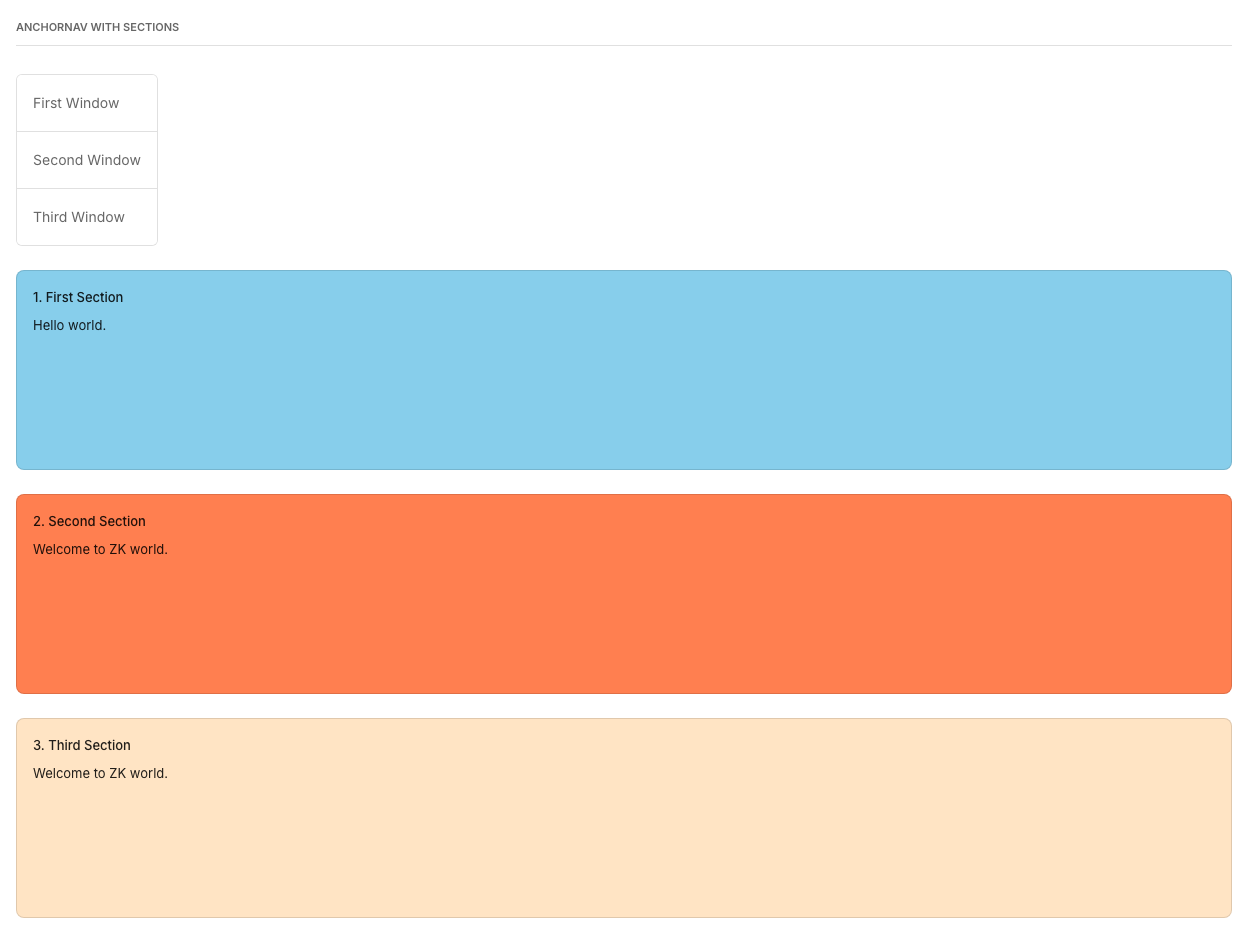
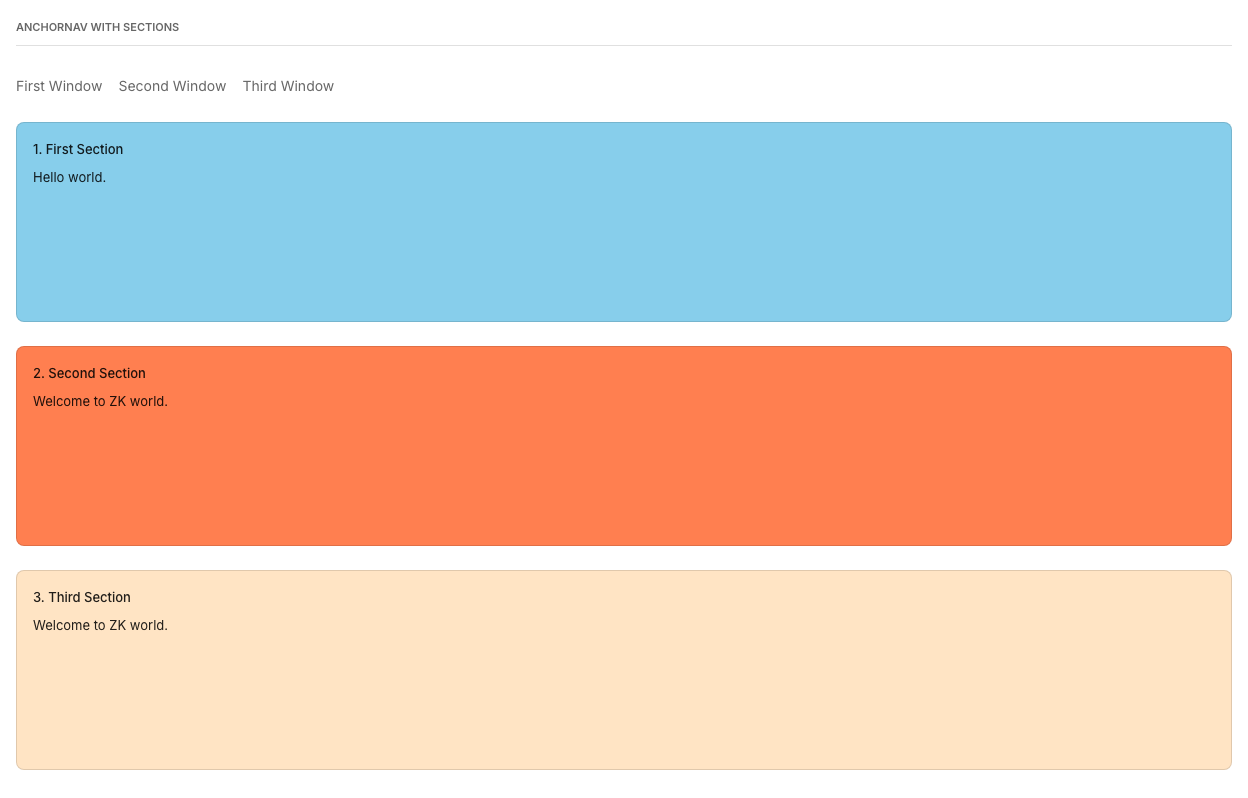
ZK-6112: build the anchornav preview from links, add button links, test the active link and its outline, and update the baselines (zkdemo B11-Z3)

diff --git a/zkpreview/src/test/playwright/component-theme-variables.spec.ts b/zkpreview/src/test/playwright/component-theme-variables.spec.ts
@@ -56,7 +56,6 @@ test.describe('Component Theme Variables (borrowed preview pages)', () => {
 // Each test: read stock values, inject the region's knobs at :root after the theme bundle, read again.
 const SCOPED_PURPLE = PURPLE;
 const borderBottomColorOf = (loc: Locator) => loc.evaluate((el) => getComputedStyle(el).borderBottomColor);
-const borderLeftColorOf = (loc: Locator) => loc.evaluate((el) => getComputedStyle(el).borderLeftColor);
 const pseudoBgOf = (loc: Locator, pseudo: string) =>
   loc.evaluate((el, p) => getComputedStyle(el, p).backgroundColor, pseudo);
 
@@ -722,22 +721,38 @@ test.describe('Component Theme Variables (borrowed preview pages, batch 3)', () 
   });
 
   test('anchornav — stock values, then :root override reaches it', async ({ page }) => {
-    // anchornav.zul renders no selected row; select the second item (the first stays the resting link)
-    // through the client widget API, because clicking an item does not select it.
-    await page.evaluate(() => zk.Widget.$(document.querySelectorAll('.z-anchornav .z-listitem')[1]).setSelected(true));
-    const c0 = page.locator('.z-anchornav').first().locator('.z-a').first();
-    const c1 = page.locator('.z-anchornav').first().locator('.z-listitem-selected').first();
-    const c2 = page.locator('.z-anchornav').first().locator('.z-listitem-selected').first().locator('.z-a').first();
+    // anchornav.zul renders no active link; click the second link (the first stays the resting link).
+    // The active class is added after the scroll animation, so wait for it.
+    const links = page.locator('.z-anchornav').first().locator('a.z-a');
+    const c0 = links.first();
+    const c1 = links.nth(1);
     await c0.waitFor({ state: 'attached' });
-    await c1.waitFor({ state: 'attached' });
-    await c2.waitFor({ state: 'attached' });
+    await c1.click();
+    await expect(c1).toHaveClass(/z-anchornav-link-active/);
+    await page.waitForTimeout(300); // the link color has a transition
     expect(await colorOf(c0)).toBe('rgba(0, 0, 0, 0.6)'); // stock
-    expect(await borderLeftColorOf(c1)).toBe('rgb(55, 111, 208)'); // stock
-    expect(await colorOf(c2)).toBe('rgb(55, 111, 208)'); // stock
+    expect(await colorOf(c1)).toBe('rgb(55, 111, 208)'); // stock
     await page.addStyleTag({ content: ':root{--zk-anchornav-fg:#6750a4;--zk-anchornav-accent:#6750a4}' });
+    await page.waitForTimeout(300);
     expect(await colorOf(c0)).toBe(SCOPED_PURPLE);
-    expect(await borderLeftColorOf(c1)).toBe(SCOPED_PURPLE);
-    expect(await colorOf(c2)).toBe(SCOPED_PURPLE);
+    expect(await colorOf(c1)).toBe(SCOPED_PURPLE);
+  });
+
+  test('anchornav — button link: the active link gets an accent outline, :root override reaches it', async ({ page }) => {
+    // The second anchornav on anchornav.zul has button links; a filled button cannot show the state by text color.
+    const buttons = page.locator('.z-anchornav').nth(1).locator('button');
+    const c0 = buttons.first();
+    const c1 = buttons.nth(1);
+    await c0.waitFor({ state: 'attached' });
+    await c1.click();
+    await expect(c1).toHaveClass(/z-anchornav-link-active/);
+    await page.mouse.move(0, 0); // the button's hover rule is not what is measured
+    await page.waitForTimeout(300);
+    const outlineOf = (loc: Locator) => loc.evaluate((el) => { const c = getComputedStyle(el); return `${c.outlineStyle} ${c.outlineWidth} ${c.outlineColor}`; });
+    expect(await outlineOf(c0)).toMatch(/^none /); // stock: the resting link has no outline
+    expect(await outlineOf(c1)).toBe('solid 2px rgb(55, 111, 208)'); // stock
+    await page.addStyleTag({ content: ':root{--zk-anchornav-accent:#6750a4}' });
+    expect(await outlineOf(c1)).toBe(`solid 2px ${SCOPED_PURPLE}`);
   });
 
   test('stepbar — stock values, then :root override reaches it', async ({ page }) => {

diff --git a/zul/src/main/resources/web/zul/css/tokens/_component-theme.css b/zul/src/main/resources/web/zul/css/tokens/_component-theme.css
@@ -758,18 +758,15 @@
     --zk-navitem-selected-bg: color-mix(in srgb, var(--zk-color-primary) 12%, transparent);
     --zk-navitem-selected-fg: var(--zk-color-primary);
 
-    /* ── Anchornav (EE, zkmax) — anchor-link navigation list built on a plain
-       listbox (zkmax/nav/css/anchornav.css): .z-anchornav wraps a listbox
-       whose item links (.z-a) jump to page sections. --zk-anchornav-fg is
-       the resting (non-active) item link's text color. The active item is
-       the component's one defining state — --zk-anchornav-accent colors
-       BOTH the left border indicator and the active item's own link text
-       (both read var(--zk-color-primary) today), the same "one knob,
-       several roles" precedent as tab/calendar/nav's accent. The
-       indicator's border-left WIDTH (3px) stays hardcoded, same convention
-       as tab's border-bottom-color knob leaving its indicator width fixed.
-       The underlying listbox chrome (.z-listbox / .z-listitem) is already
-       a separate conformant family (its own --zk-listbox-* knobs);
+    /* ── Anchornav (EE, zkmax) — anchor-link navigation (zkmax/nav/css/anchornav.css):
+       .z-anchornav wraps a / button links that jump to page sections.
+       --zk-anchornav-fg is the resting link's text color. The active link
+       (.z-anchornav-link-active) is the component's one defining state —
+       --zk-anchornav-accent colors an a link's text and the outline
+       of a button link (both read var(--zk-color-primary) today), the same
+       "one knob, several roles" precedent as tab/calendar/nav's accent. The
+       outline's width and offset stay hardcoded, same convention as tab's
+       border-bottom-color knob leaving its indicator width fixed.
        text-decoration:none is structural, not a themeable axis. */
     --zk-anchornav-fg:     var(--zk-color-on-surface-variant);
     --zk-anchornav-accent: var(--zk-color-primary);

diff --git a/doc/spec/component-theme-variables.md b/doc/spec/component-theme-variables.md
@@ -1097,15 +1097,14 @@ structural exceptions.
 
 ### Anchornav — shipped
 
-Anchor-link navigation list (EE, `zkmax/nav/css/anchornav.css`) — `.z-anchornav` wraps a plain
-listbox whose item links (`.z-a`) jump to page sections. No background, border, or radius knob
-applies — the container paints no fill/border of its own; the listbox's chrome is already its own
-established variable family (`--zk-listbox-*`) and isn't re-exposed here. Only two color axes:
-`--zk-anchornav-fg` is the resting (non-active) item link's text color. The active item is the
-component's one defining state — `--zk-anchornav-accent` colors **both** the left-edge border
-indicator (`.z-listitem-selected`'s `border-left`) and the active item's own link text — both read
-`var(--zk-color-primary)` today, one knob keeping them in sync, the same "one knob, several roles"
-precedent as tab/calendar/nav's accent. The indicator's border width (`3px`) stays a literal, not
+Anchor-link navigation (EE, `zkmax/nav/css/anchornav.css`) — `.z-anchornav` wraps `a` or `button`
+links that jump to page sections. No background, border, or radius knob applies — the container
+paints no fill/border of its own. Only two color axes: `--zk-anchornav-fg` is the resting link's
+text color. The active link is the component's one defining state — Anchornav.ts adds
+`.z-anchornav-link-active` to it, and `--zk-anchornav-accent` colors an `a` link's text (with a
+heavier weight) and the outline of a `button` link (a `button` is already a filled primary
+button, so its text color cannot carry the state). One knob keeps both in sync, the same "one knob,
+several roles" precedent as tab/calendar/nav's accent. The outline's width and offset stay literals, not
 knob-driven (same convention as tab's `border-bottom-color` knob — width stays fixed, only color is
 exposed). `text-decoration: none` is a structural declaration, not a themeable appearance axis, so
 it isn't exposed. `.z-anchornav` renders in place with no client-side reparenting, so region
@@ -1114,7 +1113,7 @@ scoping works normally — unlike messagebox/popup/drawer's structural exception
 | Knob | Default | Scope |
 |------|---------|-------|
 | `--zk-anchornav-fg` | `var(--zk-color-on-surface-variant)` | resting item link text |
-| `--zk-anchornav-accent` | `var(--zk-color-primary)` | active item's left-edge border indicator + link text |
+| `--zk-anchornav-accent` | `var(--zk-color-primary)` | active `a` link text, active `button` link outline |
 
 ### Stepbar — shipped
 

diff --git a/doc/contracts/anchornav.md b/doc/contracts/anchornav.md
@@ -10,21 +10,22 @@ preview: ${PREVIEW_URL}/anchornav.zul
 
 ## DOM key selectors
 ```
-.z-anchornav            ← root
-.z-anchornav-item       ← individual anchor link
-.z-anchornav-item-active ← currently active/highlighted item
+.z-anchornav                     ← root
+.z-anchornav .z-a                ← a link (also button.z-button as a link)
+.z-anchornav-link-active         ← the link whose target is current; added by the widget after a click
 ```
 
 ## Expected values
 
 | id | selector | property | expected |
 |----|----------|----------|----------|
-| c1 | `.z-anchornav-item` | font-size | 14px |
-| c2 | `.z-anchornav-item` | color | rgba(0, 0, 0, 0.6) |
-| c3 | `.z-anchornav-item-active` | color | rgb(55, 111, 208) |
-| c4 | `.z-anchornav-item-active` | border-left or indicator | 2–4px solid rgb(55, 111, 208) |
+| c1 | `.z-anchornav a.z-a` | font-size | 14px |
+| c2 | `.z-anchornav a.z-a` | color | rgba(0, 0, 0, 0.6) |
+| c3 | `.z-anchornav a.z-anchornav-link-active` | color | rgb(55, 111, 208) |
+| c4 | `.z-anchornav a.z-anchornav-link-active` | font-weight | 600 |
+| c5 | `.z-anchornav button.z-anchornav-link-active` | outline | 2px solid rgb(55, 111, 208), unless keyboard-focused |
 
 WCAG 2.5.8 target: the `:where(a[data-anchornav-target])` rule (inline-flex, min 24×24) lives in za11y `zkmax/css/_nav-a11y.css` (zkcml repo) and is loaded only when za11y is active; without za11y the links are not enlarged.
 
 ## States to evaluate
-- [ ] default, active/highlighted
+- [ ] default, active/highlighted (a link and button link)
